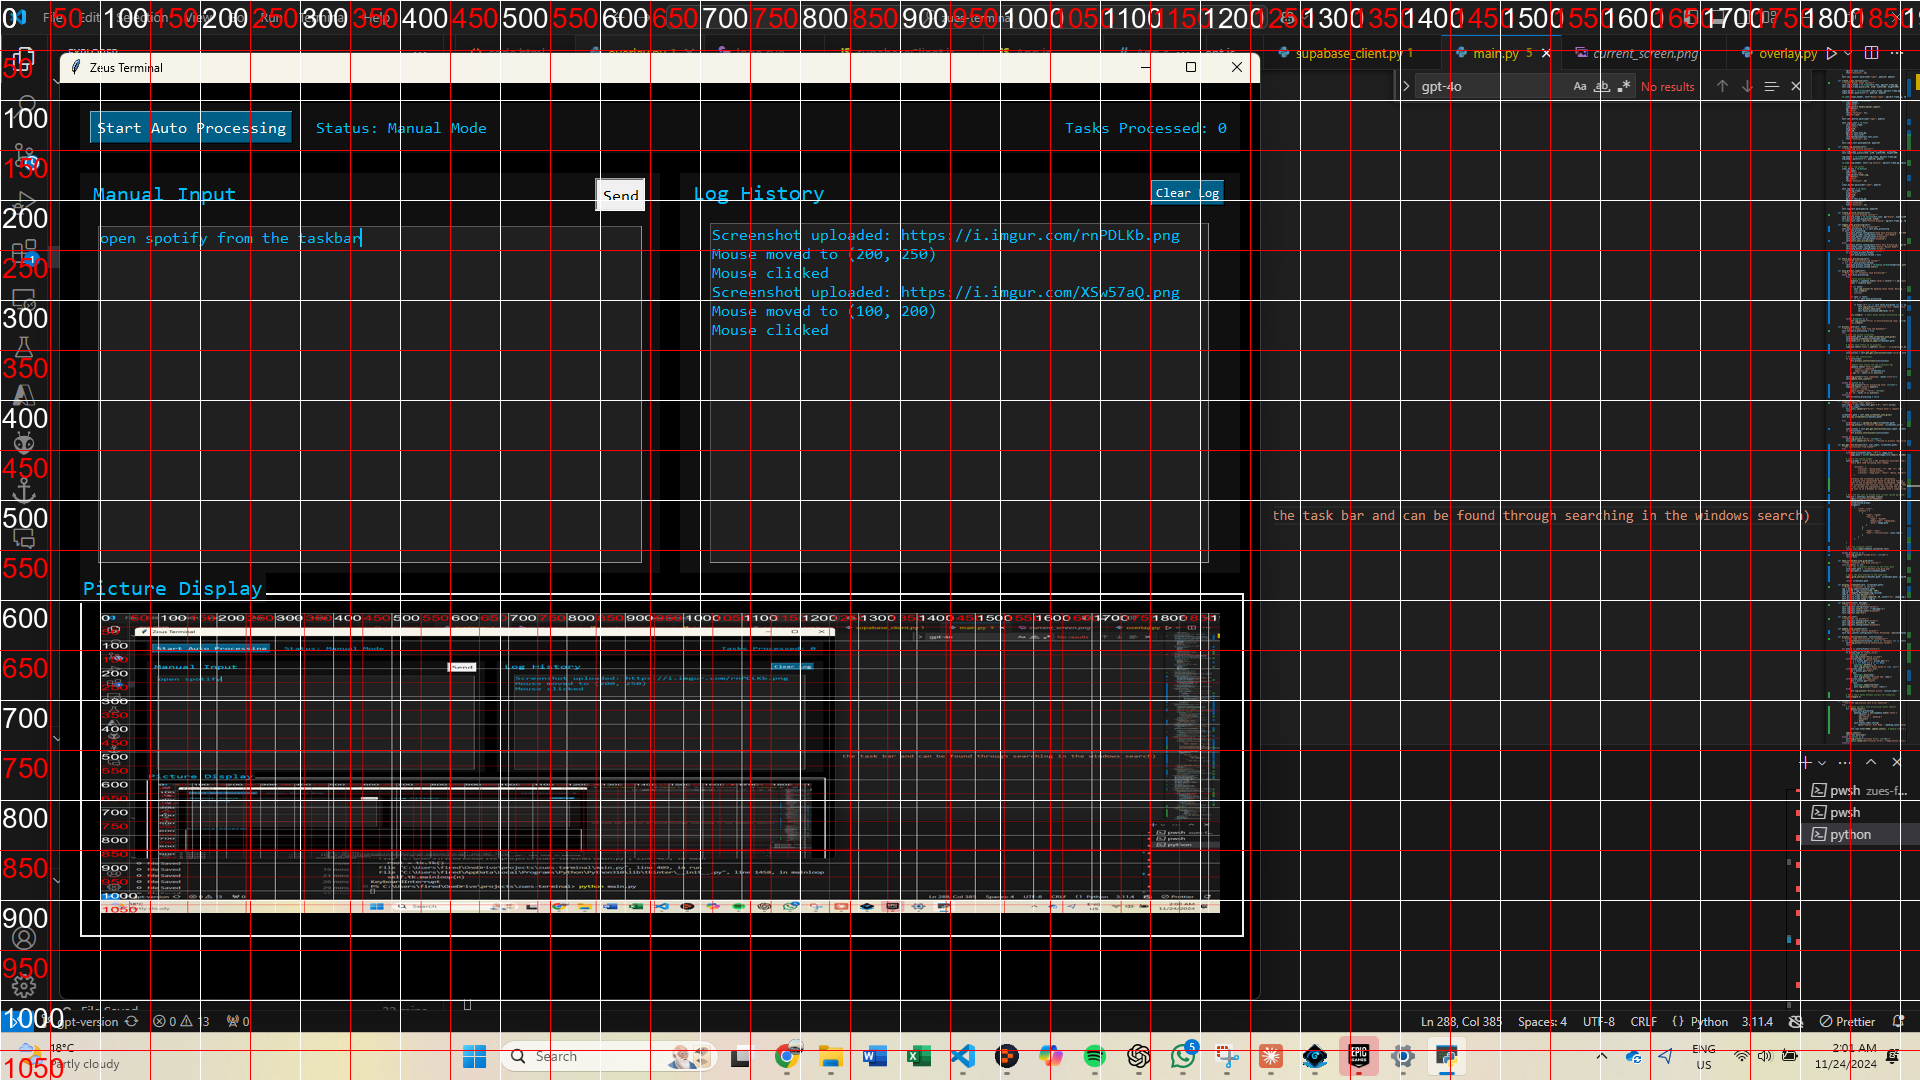
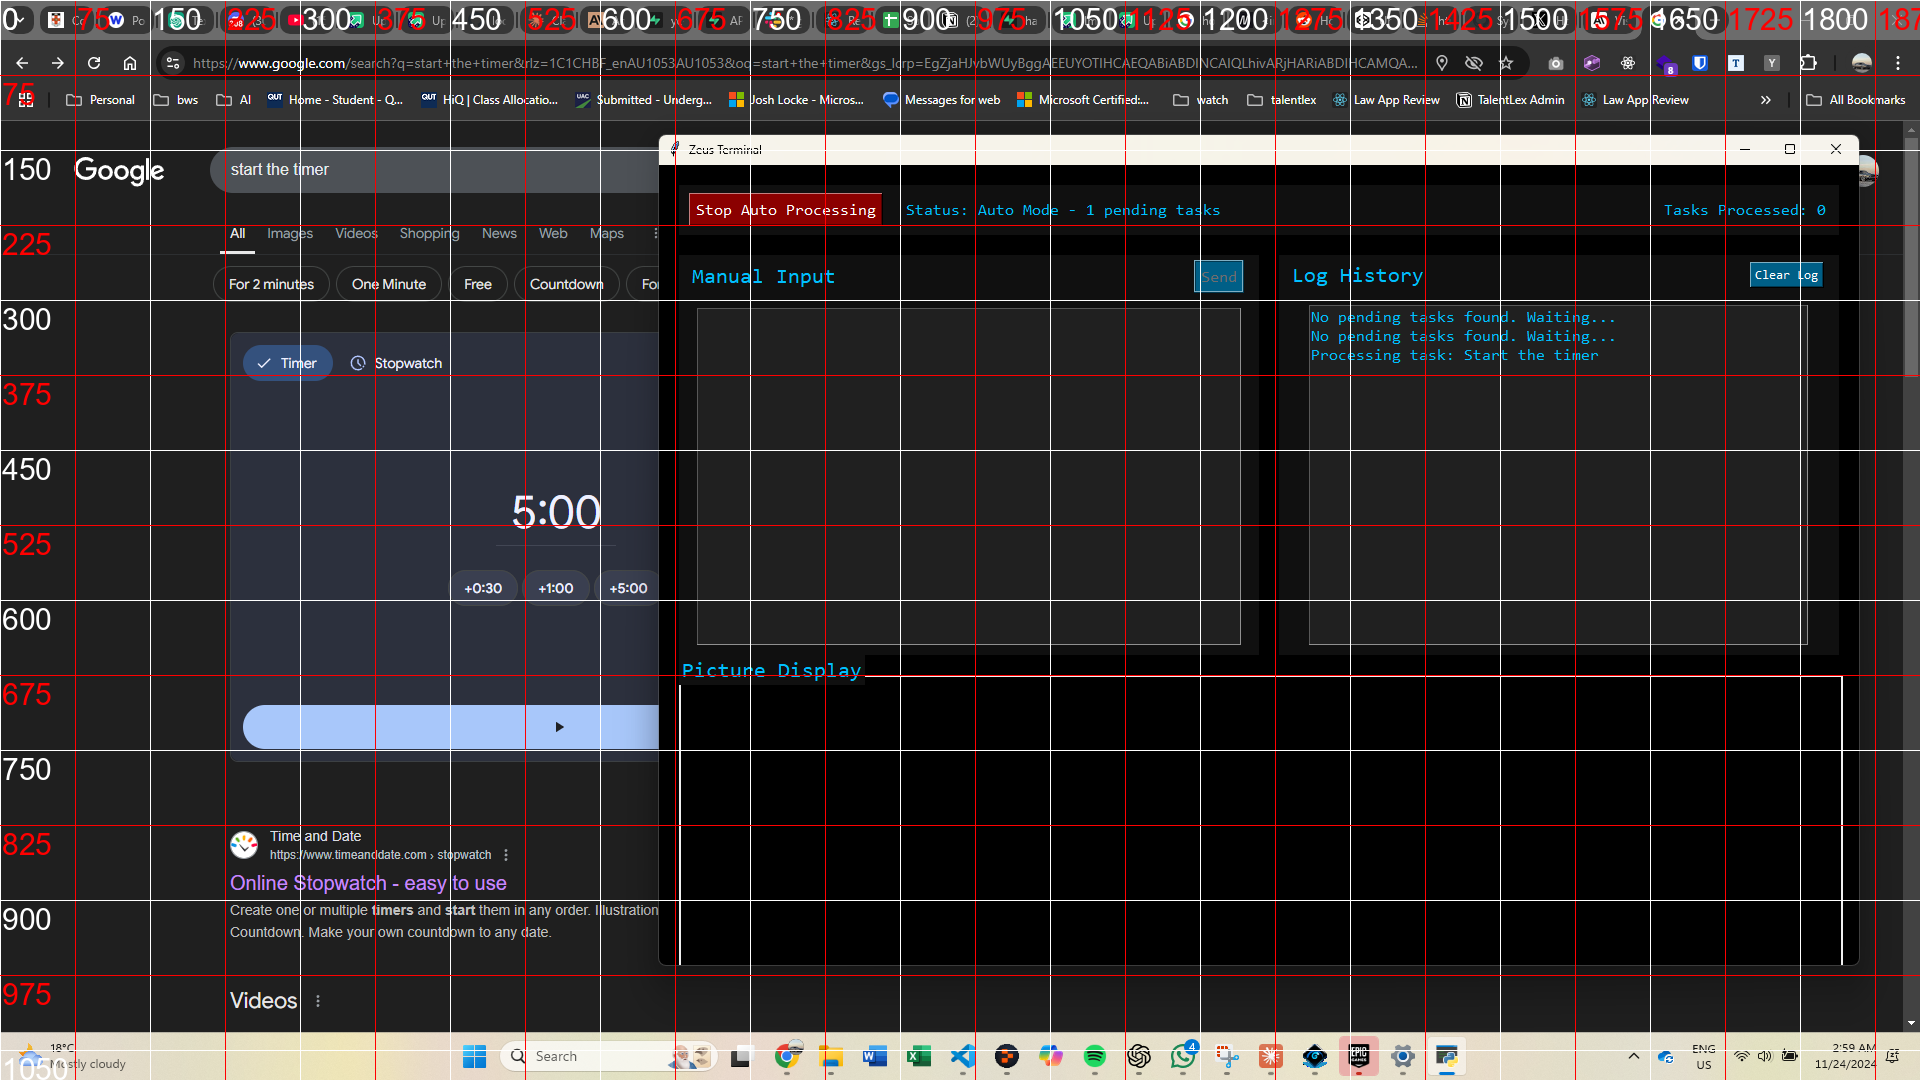
final

diff --git a/zues-front/src/App.js b/zues-front/src/App.js
@@ -1,7 +1,12 @@
 import React, { useEffect, useState } from 'react';
 import { ChevronRight, ChevronDown, Plus, Loader, Image as ImageIcon } from 'lucide-react';
-import { supabase } from './supabaseClient'; // We'll create this file separately
 import './App.css';
+import { createClient } from '@supabase/supabase-js';
+
+const supabaseUrl = "https://aavaqbqugbiqklvtsmsj.supabase.co";
+const supabaseKey = "eyJhbGciOiJIUzI1NiIsInR5cCI6IkpXVCJ9.eyJpc3MiOiJzdXBhYmFzZSIsInJlZiI6ImFhdmFxYnF1Z2JpcWtsdnRzbXNqIiwicm9sZSI6ImFub24iLCJpYXQiOjE3MzE4MTUzMDYsImV4cCI6MjA0NzM5MTMwNn0.1604HS5mtk22B6bmdeIS7-F_sDvpYiC1aVkC4h9rMuk";
+
+export const supabase = createClient(supabaseUrl, supabaseKey);
 
 function App() {
   const [tasks, setTasks] = useState([]);

diff --git a/main.py b/main.py
@@ -283,9 +283,10 @@ class ZeusTerminal:
                 Reference the screenshot grid for coordinates.
                 Be precise with coordinates based on the grid overlay.
                 Refer to the screenshot for exact coordinates, and make judgements based off of the grid reference.
-                The coordinates and relative lines are red, look at them and identify what you are trying to locate, and use the lines to determine the coordinates. 
+                The coordinates and relative lines are black and white for clear visibility, look at them and identify what you are trying to locate, and use the lines to determine the coordinates. 
+                The user is on a Windows 11 computer with a single screen. When they ask you to do things, you have to make appropriate assumptions based off of screenshots on how to complete the task, consider the enviroment and what a person using a laptop would do (i.e. most of their applications are either in the task bar and can be found through searching in the windows search).
+                Before clicking anything, make direct reference to the coordinates to know where to click exactly.
                 Do not include any explanatory text outside the JSON. 
-                The user is on a Windows 11 computer with a single screen. When they ask you to do things, you have to make appropriate assumptions based off of screenshots on how to complete the task, consider the enviroment and what a person using a laptop would do (i.e. most of their applications are either in the task bar and can be found through searching in the windows search)
                 """
 
             # Make the API call to Claude with correct system parameter
@@ -329,7 +330,7 @@ class ZeusTerminal:
             sct.shot(mon=-1, output=screenshot_path)
             
             # Apply the grid overlay to the same file
-            apply_grid_overlay(screenshot_path, screenshot_path, step=50)
+            apply_grid_overlay(screenshot_path, screenshot_path, step=75)
             
             return screenshot_path
 

diff --git a/overlay.py b/overlay.py
@@ -1,6 +1,6 @@
 from PIL import Image, ImageDraw, ImageFont
 
-def apply_grid_overlay(image_path, output_path, step=50):
+def apply_grid_overlay(image_path, output_path, step=75):
     """
     Applies a grid overlay with labeled coordinates to an image.
 
@@ -17,7 +17,7 @@ def apply_grid_overlay(image_path, output_path, step=50):
 
     # Load a font for the labels
     try:
-        font = ImageFont.truetype("arial.ttf", 28)  # Smaller font for denser grid
+        font = ImageFont.truetype("arial.ttf", 30)  # Smaller font for denser grid
     except IOError:
         font = ImageFont.load_default()
 
@@ -26,7 +26,7 @@ def apply_grid_overlay(image_path, output_path, step=50):
         # Alternate between red and white for better visibility
         line_color = "white" if i % 2 == 0 else "red"
         draw.line((x, 0, x, height), fill=line_color, width=1)
-        if x % 50 == 0:  # Show labels every 50 pixels
+        if x % 75 == 0:  # Show labels every 75 pixels
             draw.text((x + 2, 2), f"{x}", fill=line_color, font=font)
 
     # Draw horizontal grid lines and Y-axis labels
@@ -34,7 +34,7 @@ def apply_grid_overlay(image_path, output_path, step=50):
         # Alternate between red and white for better visibility
         line_color = "white" if i % 2 == 0 else "red"
         draw.line((0, y, width, y), fill=line_color, width=1)
-        if y % 50 == 0:  # Show labels every 50 pixels
+        if y % 75 == 0:  # Show labels every 75 pixels
             draw.text((2, y + 2), f"{y}", fill=line_color, font=font)
 
     # Save the modified image
